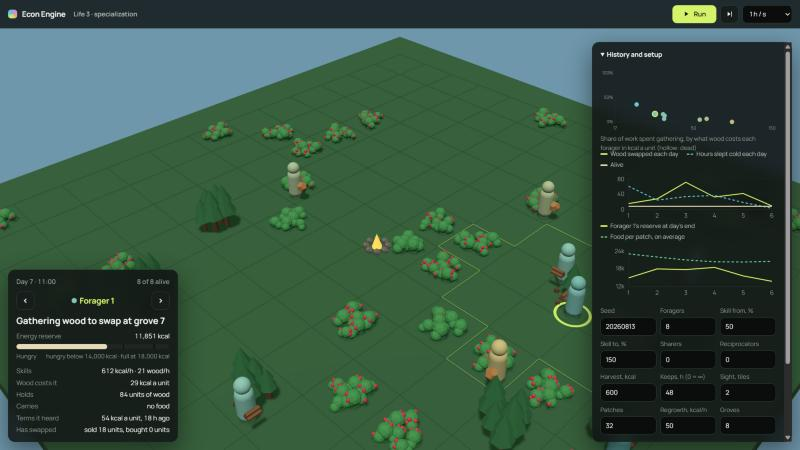
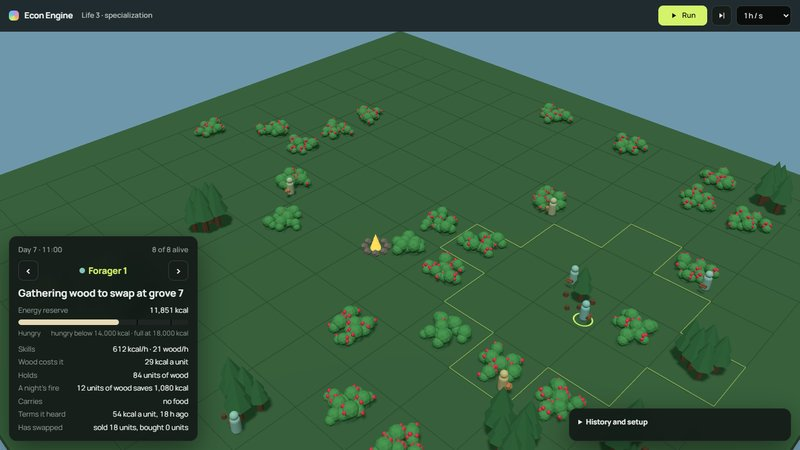
feat(life): draw foragers at half size and show what a night's fire saves (#64)
Foragers stood as tall as a full-grown tree; they are now about half as
tall, with their hearths, follow ring and gift and swap arcs scaled to
match. The followed forager's panel adds what a night's fire burns in
wood and saves in food, and a forager burning wood sleeps warm by its
fire. The README screenshot is retaken. The simulation is unchanged.

diff --git a/src/lifeView/lifeViewModel.ts b/src/lifeView/lifeViewModel.ts
@@ -12,7 +12,7 @@ import type {
   SwapEvent,
   Tile,
 } from '../life/types'
-import { woodTarget } from '../life/wood'
+import { nightHours, nightWood, woodMatters, woodTarget } from '../life/wood'
 import { campTile, sameTile, walkPath } from '../life/world'
 import { mixSeed, randomDraw } from '../sim/rng'
 import { palette } from '../ui/theme'
@@ -313,6 +313,12 @@ export function stepFollowed(state: LifeState, current: number, direction: 1 | -
   return current
 }
 
+/** What a night's fire burns in wood and saves in food, or null where nights are not cold or there are no groves. */
+export function fireSaving(config: LifeConfig) {
+  if (!woodMatters(config)) return null
+  return { wood: nightWood(config), kcal: nightHours(config) * (config.coldSleepKcalPerHour - config.sleepKcalPerHour) }
+}
+
 export function describeActivity(pair: DisplayPair, foragerId: number) {
   const event = currentEvent(pair, foragerId)
   if (!pair.next.foragers[foragerId]!.alive && !event) return 'Dead of starvation'
@@ -322,7 +328,8 @@ export function describeActivity(pair: DisplayPair, foragerId: number) {
   switch (event.action) {
     case 'sleep':
       if (event.energyAfterKcal === 0) return 'Starved in its sleep'
-      return event.sleptCold ? 'Sleeping cold, with no wood to burn' : 'Sleeping through the night'
+      if (event.sleptCold) return 'Sleeping cold, with no wood to burn'
+      return woodMatters(pair.next.config) ? 'Sleeping warm by its fire' : 'Sleeping through the night'
     case 'rest':
       if (event.reason === 'satiated') return 'Resting, well fed'
       if (event.reason === 'waiting to swap') return 'Resting, carrying food to swap for wood'
@@ -416,7 +423,7 @@ export const currentGifts = ({ previous, next }: DisplayPair): GiftEvent[] =>
 
 /** A point on a gift's arc, `t` of the way from giver to recipient, rising highest halfway. In tiles; `height` in world units. */
 export function giftArcPoint(from: { x: number; y: number }, to: { x: number; y: number }, t: number) {
-  return { x: lerp(from.x, to.x, t), y: lerp(from.y, to.y, t), height: 0.75 + 0.45 * Math.sin(Math.PI * t) }
+  return { x: lerp(from.x, to.x, t), y: lerp(from.y, to.y, t), height: 0.4 + 0.35 * Math.sin(Math.PI * t) }
 }
 
 /**

diff --git a/src/lifeView/lifeScene.ts b/src/lifeView/lifeScene.ts
@@ -110,6 +110,8 @@ const CROWN_CONES: [number, number][] = [
 /** On a camp tile the fire takes a corner, so the thicket draws in towards the opposite one. */
 const CAMP_THICKET_SCALE = 0.7
 const CAMP_THICKET_SHIFT = 0.1
+/** A forager stands about half as tall as a full-grown tree, so the band reads at the scale of its land. */
+const FIGURE_SCALE = 0.5
 
 /** Builds the scene inside `mount`. The caller drives drawing; nothing renders until `draw` is called. */
 interface Figure {
@@ -241,7 +243,7 @@ export async function createLifeScene(mount: HTMLElement, onPick: (pick: LifePic
     new THREE.MeshBasicMaterial({ color: hex(palette.accent), transparent: true, opacity: 0.95 }),
   )
   followRing.rotation.x = -Math.PI / 2
-  followRing.scale.setScalar(0.62)
+  followRing.scale.setScalar(0.62 * FIGURE_SCALE)
   scene.add(followRing)
 
   // The camp: a ring of stones around a fire that glows at night.
@@ -338,6 +340,7 @@ export async function createLifeScene(mount: HTMLElement, onPick: (pick: LifePic
     hearth.add(hearthFlame)
     hearth.position.set(0.3, 0, 0.12)
     group.add(hearth)
+    group.scale.setScalar(FIGURE_SCALE)
     band.add(group)
     return { group, body, material, bundle, logs, hearth, hearthFlame }
   }
@@ -629,7 +632,7 @@ export async function createLifeScene(mount: HTMLElement, onPick: (pick: LifePic
       const pose = foragerPose(pair, id, interpolate, offsets)
       const position = toWorld(pose.x + pose.offsetX, pose.y + pose.offsetY)
       // Each forager bobs out of step with the others.
-      const bob = pose.walking ? Math.abs(Math.sin(nowMs / 110 + id)) * 0.04 : 0
+      const bob = pose.walking ? Math.abs(Math.sin(nowMs / 110 + id)) * 0.04 * FIGURE_SCALE : 0
       figure.group.position.set(position.x, bob, position.z)
       if (pose.heading !== null) figure.group.rotation.y = pose.heading
       // Lying down tips the body over at the feet.

diff --git a/src/lifeView/lifeViewModel.test.ts b/src/lifeView/lifeViewModel.test.ts
@@ -13,6 +13,7 @@ import {
   currentSwaps,
   daylightAt,
   describeActivity,
+  fireSaving,
   displayedCarried,
   displayedStock,
   displayedWood,
@@ -175,6 +176,12 @@ describe('words', () => {
     // A Life 3 band starts with no wood, so its first night is cold.
     expect(describeActivity(pairAt(createLife(), 0.5), 7)).toBe('Sleeping cold, with no wood to burn')
     expect(foragerName(0)).toBe('Forager 1')
+  })
+
+  it('says what a night’s fire burns and saves, only where nights are cold and wood grows', () => {
+    // 12 hours of night at 1 unit an hour, each hour 150 − 60 kcal cheaper than sleeping cold.
+    expect(fireSaving(createLife().config)).toEqual({ wood: 12, kcal: 1_080 })
+    expect(fireSaving(createLife(LIFE2_WORLD).config)).toBeNull()
   })
 
   it('compares a patch with what the followed forager remembers of it', () => {
@@ -374,6 +381,7 @@ describe('specialization on screen', () => {
     const cold = { ...state, foragers: state.foragers.map((forager) => ({ ...forager, wood: 0 })) }
     expect(hearthAt(pairAt(cold, 0.5), 0)).toBe('cold')
     expect(describeActivity(pairAt(cold, 0.5), 0)).toBe('Sleeping cold, with no wood to burn')
+    expect(describeActivity(pair, lit)).toBe('Sleeping warm by its fire')
     const noon = { ...state, tick: 12 }
     expect(hearthAt(pairAt(noon, 0.5), 0)).toBeNull()
   })

diff --git a/src/lifeView/LifeApp.tsx b/src/lifeView/LifeApp.tsx
@@ -11,6 +11,7 @@ import {
   aliveCount,
   clockLabel,
   describeActivity,
+  fireSaving,
   displayedEnergy,
   displayHours,
   foragerColor,
@@ -238,6 +239,7 @@ export default function LifeApp() {
   const grove = selected?.kind === 'grove' ? groveInspection(state, selected.id, followed) : null
   const summary = foragerSummary(state, followed)
   const trade = tradeSummary(state, followed)
+  const fire = fireSaving(config)
   const gifting = config.sharers + config.reciprocators > 0
   const days = state.days.map((day) => ({
     day: day.day + 1,
@@ -372,6 +374,14 @@ export default function LifeApp() {
           <dd className="num">
             {formatUnits(trade.wood)} of wood{trade.wood < trade.woodTarget && ` (wants ${trade.woodTarget})`}
           </dd>
+          {fire && (
+            <>
+              <dt>A night’s fire</dt>
+              <dd className="num">
+                {formatUnits(fire.wood)} of wood saves {formatKcal(fire.kcal)}
+              </dd>
+            </>
+          )}
           <dt>Carries</dt>
           <dd className="num">
             {summary.carriedKcal ? formatKcal(summary.carriedKcal) : 'no food'}

diff --git a/docs/ARCHITECTURE.md b/docs/ARCHITECTURE.md
@@ -102,4 +102,4 @@ From Life 2, each forager wears its strategy's colour and the followed forager a
 
 From Life 3, `world.ts` also places groves on the tiles after the patches in the layout shuffle, so adding them moves nothing, and draws every forager's foraging and wood skills from a skill stream of their own. A forager's harvest is the larger of `harvestKcal` and its own rate. `wood.ts` holds wood need with hysteresis, the wood target, spare and wanted wood, and an hour of sleep, warm with a fire's worth of wood or cold without. `trade.ts` holds a forager's own terms (its foraging rate over its wood rate), the terms of a pair, whether selling or buying pays at terms it remembers, whom a forager trades with and in what order, and the swap itself, with quotes. All comparisons of terms cross-multiply whole numbers, so they are exact. `forager.ts` chooses the good a forager works for, including trips to gather wood for trade, and applies Life 2's rules to patches or groves; choosing a patch and choosing a grove share one function. A turn gains two phases: exchange (swaps, then Life 2's gifts) and eating again, in which a seller eats the food it received. Swap and quote events go to `lastSwaps` and `lastQuotes`, and each forager keeps running totals of what it has swapped and of its hours foraging and gathering, which the observer reads. A canonical Life 3 run of 400 days takes under a second; the Life tests take about two minutes.
 
-The observer draws each patch as a thicket of six bushes whose berries are its food, and each grove as a stand of five trees: a site is many plants, and fruit marks food while trunks mark wood. `sitePlants` lays a site out within its tile from its kind and ID alone, so it looks the same in every run and draws nothing from the simulation's streams. `fillInTurn` shares a stock out part by part, so berries are picked and trees felled one at a time, the outer bushes first, and the parts drawn stay proportional to what the site holds. A felled tree is a stump that grows back as its wood regrows. All leaves, berries, trunks and crowns are four instanced meshes, and a click on an instance is traced back to its site. It also draws a stack of logs beside each forager holding wood, and each sleeper's own hearth, lit while it burns wood and dark when it sleeps cold. A swap is an arc between seller and buyer on the swap's tile, with a log travelling one way and a parcel the other. Foragers are coloured on a log scale of their own terms, from cyan for those relatively best at gathering to gold for those relatively best at foraging. `SpecializationChart.tsx` plots each forager's share of working hours spent gathering against its own terms. The inspector shows a grove as it shows a patch.
+The observer draws each patch as a thicket of six bushes whose berries are its food, and each grove as a stand of five trees: a site is many plants, and fruit marks food while trunks mark wood. `sitePlants` lays a site out within its tile from its kind and ID alone, so it looks the same in every run and draws nothing from the simulation's streams. `fillInTurn` shares a stock out part by part, so berries are picked and trees felled one at a time, the outer bushes first, and the parts drawn stay proportional to what the site holds. A felled tree is a stump that grows back as its wood regrows. All leaves, berries, trunks and crowns are four instanced meshes, and a click on an instance is traced back to its site. Foragers are drawn at half their earlier size, about half as tall as a full-grown tree. It also draws a stack of logs beside each forager holding wood, and each sleeper's own hearth, lit while it burns wood and dark when it sleeps cold. A swap is an arc between seller and buyer on the swap's tile, with a log travelling one way and a parcel the other. Foragers are coloured on a log scale of their own terms, from cyan for those relatively best at gathering to gold for those relatively best at foraging. `SpecializationChart.tsx` plots each forager's share of working hours spent gathering against its own terms. The inspector shows a grove as it shows a patch.

diff --git a/docs/VALIDATION.md b/docs/VALIDATION.md
@@ -177,6 +177,6 @@ The experiments of the [specification](LIFE3_SPEC.md#experiments) are tests. Exp
 - **The spread of skills.** With equal skills nothing is swapped. At every wider spread the correlation turns from positive (+0.90 to +0.94) to negative (−0.72 to −0.84). At 80–120% no one dies either way, and swaps cut a living forager's day from 3.40 hours of work and 3.79 of walking to 3.24 and 3.29. At 25–175%, survivors rise from 5.8 to 6.7 and the least skilled third's survival from 16% to 61%.
 - **Telling terms.** With quotes off and steady harvests, nothing is ever swapped and every run is identical to one without swapping. With windfalls of 6,000, swaps start without quotes (651 a run), but the correlation only falls from +0.86 to +0.23 and survivors do not change (3.1 and 3.0); with quotes, 2,096 swaps, −0.75 and 3.6 survivors.
 
-Unit tests cover the new configuration rules; groves in the layout after the patches; skills from their own stream, within range, with 100% giving Life 2's rates; each forager's own harvest; wood need with hysteresis, spare and wanted wood; burning a unit an hour and sleeping cold without one; gathering only an hour's wood, and only at a grove reachable in time; terms at the midpoint and strictly between own terms; partners served best terms first, on the same tile and alive; swap quantities limited by spare wood, want, the buyer's food and the seller's room; the seller eating what it received at once; everyone on the tile hearing a swap and only the pair a quote; quotes off teaching nothing; choosing work for trade, including trips, unsold wood and forgotten terms; and the invariants catching wood that is not conserved and a swap outside the two own terms. The observer's view model is tested for sites laid out inside their tile the same way every run, berries picked and trees felled one at a time in proportion to what a site holds, log sizes, colours by own terms, a swap's arc on its tile, lit and dark hearths, the HUD's trade summary and specialization points, and the grove inspector.
+Unit tests cover the new configuration rules; groves in the layout after the patches; skills from their own stream, within range, with 100% giving Life 2's rates; each forager's own harvest; wood need with hysteresis, spare and wanted wood; burning a unit an hour and sleeping cold without one; gathering only an hour's wood, and only at a grove reachable in time; terms at the midpoint and strictly between own terms; partners served best terms first, on the same tile and alive; swap quantities limited by spare wood, want, the buyer's food and the seller's room; the seller eating what it received at once; everyone on the tile hearing a swap and only the pair a quote; quotes off teaching nothing; choosing work for trade, including trips, unsold wood and forgotten terms; and the invariants catching wood that is not conserved and a swap outside the two own terms. The observer's view model is tested for sites laid out inside their tile the same way every run, berries picked and trees felled one at a time in proportion to what a site holds, log sizes, colours by own terms, a swap's arc on its tile, lit and dark hearths, sleeping warm or cold, what a night's fire burns and saves, the HUD's trade summary and specialization points, and the grove inspector.
 
 In the browser, trees, logs, lit and dark hearths at camp, a swap's arc with its log and parcel, the specialization chart and daily charts, the new HUD lines, the setup's switches and its validation of the skill range, and the 375px layout were checked, with no console errors.

diff --git a/docs/LIFE3_SPEC.md b/docs/LIFE3_SPEC.md
@@ -297,7 +297,7 @@ The page stays `life.html` and is retitled "Life 3 · specialization".
 
 - **World.** A patch is a thicket of six bushes whose berries are its food, and a grove a stand of five trees. Berries are picked and trees felled to stumps one at a time as a site runs low, and both grow back; the bushes stay green throughout. (Update 032 replaced the single bush per patch, and the single tree per grove whose crown shrank, so that food and wood are told apart by fruit and trunks.) A forager holding wood shows a small stack of logs, sized by what it holds, beside any bundle of food. Each forager sleeping at camp has its own small hearth beside it, lit while it burns wood and dark when it sleeps cold. A swap is drawn as two parcels crossing between the two foragers during the hour it happens, wood one way and food the other.
 - **Colour.** Each forager is coloured by its own terms, on a scale from those relatively best at gathering to those relatively best at foraging. Life 2's strategy colours give way, since the canonical band is all keepers; a forager's strategy is still in the HUD.
-- **Following a forager,** as in Life 2. The HUD adds its two rates and its own terms, the wood it holds, the terms it remembers and when it heard them, whether it is working for trade, and what it has sold and bought in total.
+- **Following a forager,** as in Life 2. The HUD adds its two rates and its own terms, the wood it holds, what a night's fire burns in wood and saves in food, the terms it remembers and when it heard them, whether it is working for trade, and what it has sold and bought in total. A sleeping forager is described as sleeping warm by its fire or sleeping cold. (Update 033 added the fire's saving and the warm sleep, so the point of wood is on screen, and drew foragers at half their old size, about half as tall as a tree.)
 - **Inspector.** Clicking a grove shows its wood and what the followed forager remembers of it, as for a patch.
 - **Charts.** Each forager's share of working hours spent gathering, against its own terms, so specialization shows as a falling line of points; the wood swapped, hours slept cold and foragers alive each day; and the followed forager's reserve, as before. The HUD shows a forager's strategy, and its gifts, only when the band has sharers or reciprocators.
 - **Controls.** The setup adds the skill range and switches for swapping and for telling terms.

diff --git a/LAB_NOTES.md b/LAB_NOTES.md
@@ -6,7 +6,22 @@
 
 Every meaningful model, architecture, experimental, or design update should receive a newest-first entry. Use at most one base update number per Git commit. Refinements completed before that commit keep the same base number with a decimal suffix—for example, `003` and `003.1` belong to the same commit family. Allocate the next base number only for a later commit. Preserve the context, observed problem or research question, rationale, important implementation decisions, trade-offs, findings, and unresolved questions. Distinguish verified observations from hypotheses. If the original rationale is unknown, say so rather than inferring intent from the finished code.
 
-## [LIFE3-Thickets-032] - (2026-10-12)
+## [LIFE3-Foragers-033] - (2026-10-12)
+
+### Problem
+
+Looking at Life 3, the owner found the foragers out of proportion with their land, and asked what the point of gathering wood was. Each forager stood about 0.8 tiles tall, as tall as a full-grown tree and three times a bush. The panel said a forager was "sleeping cold, with no wood to burn" but never what that cost, so wood looked like busywork.
+
+### Decisions
+
+- **Half size, not true scale.** At true scale a person would be a fifth of a tree and a speck at the default zoom. Half size puts a forager at about half a tree and a little above the bushes, and keeps it easy to see and click. The scale is one constant, `FIGURE_SCALE`; hearths, the follow ring and the gift and swap arcs follow it.
+- **The value of wood in the panel's own unit.** The panel states what a night's fire burns and what it saves against sleeping cold, in kilocalories, the unit everything else is measured in: 12 units saving 1,080 kcal on the canonical settings. It is computed from the configuration, so it stays right if the settings change, and it is hidden where nights are not cold. A forager that burns wood is now "sleeping warm by its fire", so warm and cold nights read differently.
+
+### Findings
+
+None; the simulation is unchanged. This is an observer change only.
+
+ - (2026-10-12)
 
 ### Problem
 

diff --git a/CHANGELOG.md b/CHANGELOG.md
@@ -2,6 +2,20 @@
 
 All notable changes to Econ-Engine are documented here. The changelog records what changed in each update. Design rationale, experiments, observations, and lessons are documented separately in [Lab Notes](LAB_NOTES.md).
 
+## [LIFE3-Foragers-033] - (2026-10-12)
+
+### Changed
+
+- **Foragers are drawn at half their old size,** about half as tall as a full-grown tree, so the band is in proportion to its land. Their hearths, the ring around the followed forager and the arcs of gifts and swaps shrink with them.
+- **The point of wood is on screen.** The followed forager's panel adds "A night's fire": the wood a night's fire burns and the food it saves against sleeping cold (12 units saving 1,080 kcal on the canonical settings), from `fireSaving` in the view model. Where nights are cold, a forager burning wood is described as "Sleeping warm by its fire" rather than "Sleeping through the night".
+- The README's Life 3 screenshot is retaken with the smaller foragers and the new panel line, with the history panel closed so the grove being cut stays in view. The Life 3 specification's observer section, the architecture and the validation docs describe the changes.
+
+### Validation
+
+- The simulation is unchanged; every Life test and checksum passes as before.
+- New view-model tests: a night's fire burns 12 units and saves 1,080 kcal on the canonical settings and is absent where nights are not cold; a forager burning wood sleeps warm by its fire.
+- Checked in the browser on desktop and at 375 px, with no console errors.
+
 ## [LIFE3-Thickets-032] - (2026-10-12)
 
 ### Changed

diff --git a/README.md b/README.md
@@ -81,7 +81,7 @@ A second, separate simulation has started beside the MVP9 economy. It begins fro
 
 **[▶ Open Life 3](https://neolorenzo.github.io/Econ-Engine/life.html)**, also linked from the simulator's top bar. The simulation advances in whole hours; the view moves continuously between them, so foragers walk out from camp to thickets and stands of trees, walk home and sleep beside their hearths on screen. Food grows as berries on thickets of bushes, picked bare bush by bush, and wood as stands of trees, felled to stumps one by one; both grow back. Each forager is coloured by what it is relatively good at, from cyan for gathering wood to gold for foraging. A stack of logs shows the wood a forager holds, a lit hearth one that sleeps warm, and an arc with a log and a parcel crossing it a swap as it is made. Click a forager to follow it, and a thicket or stand to compare what it really holds with what that forager remembers.
 
-![Life 3 at midday: foragers around their camp among thickets of berry bushes, some picked bare, and stands of trees, one forager cutting wood, with a chart of each forager's share of work spent gathering against what wood costs it](docs/images/life3.jpg)
+![Life 3 at midday: foragers around their camp among thickets of berry bushes, some picked bare, and stands of trees, one forager cutting wood at a grove, and the followed forager's panel showing what wood costs it and what a night's fire saves](docs/images/life3.jpg)
 
 The results so far:
 
